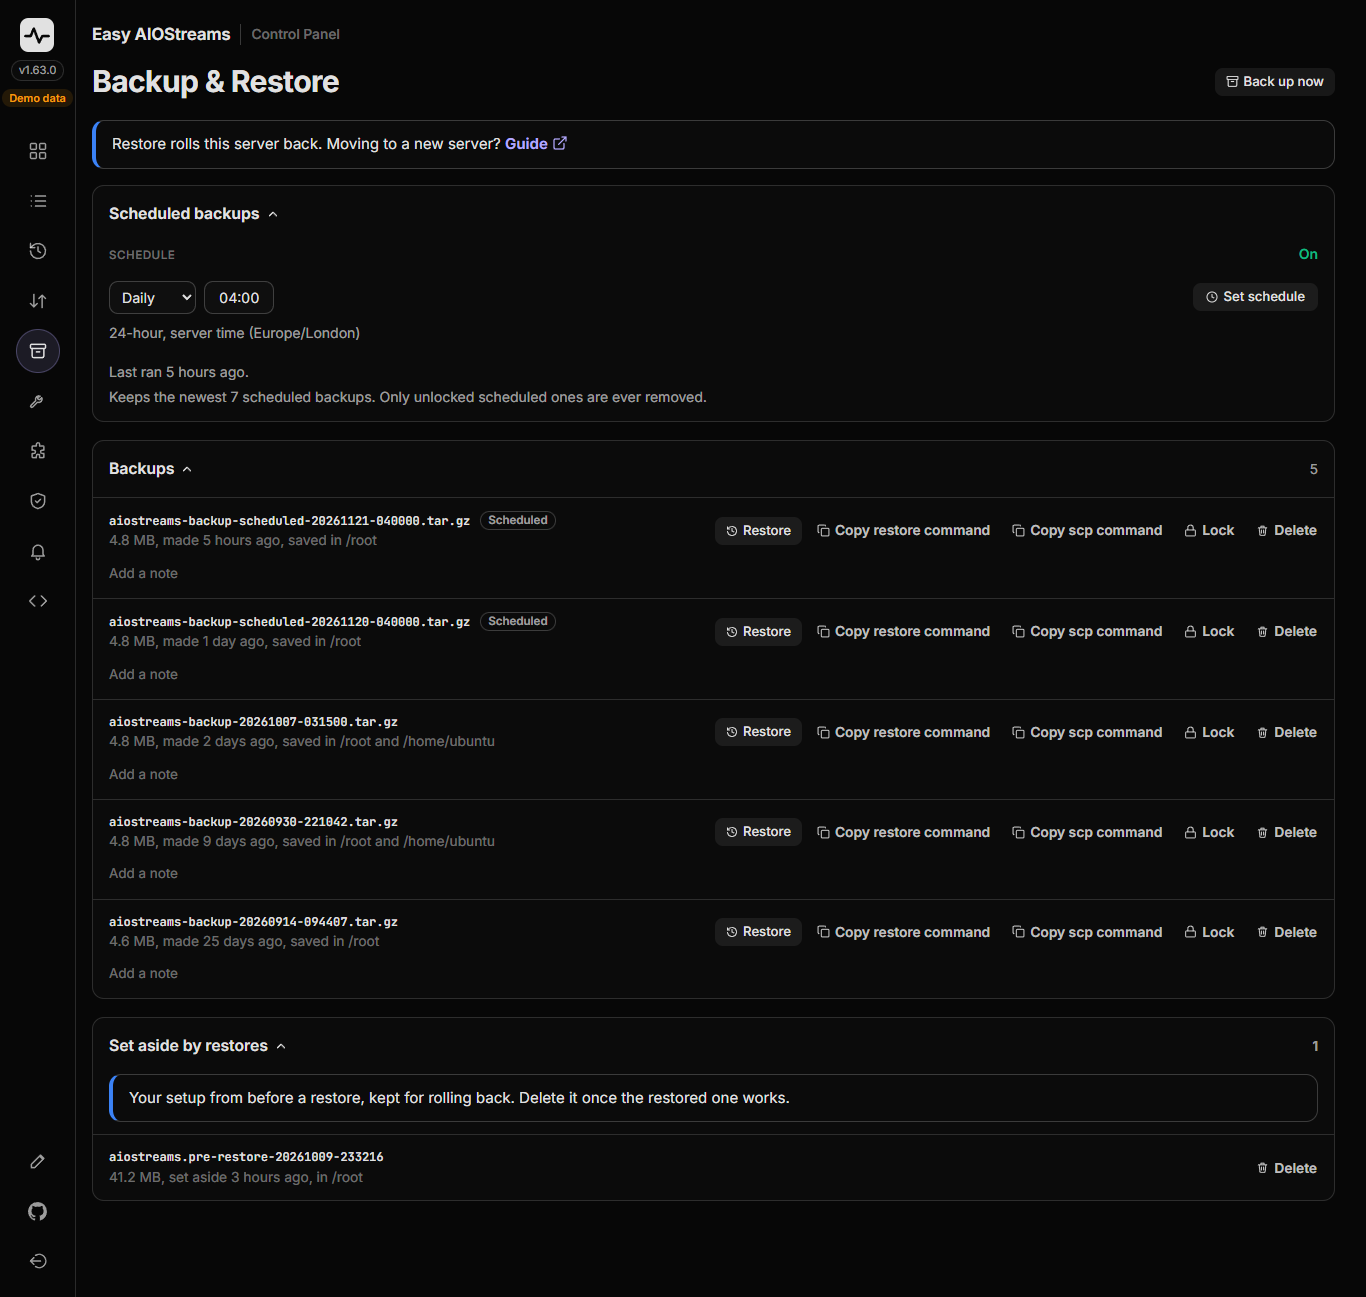
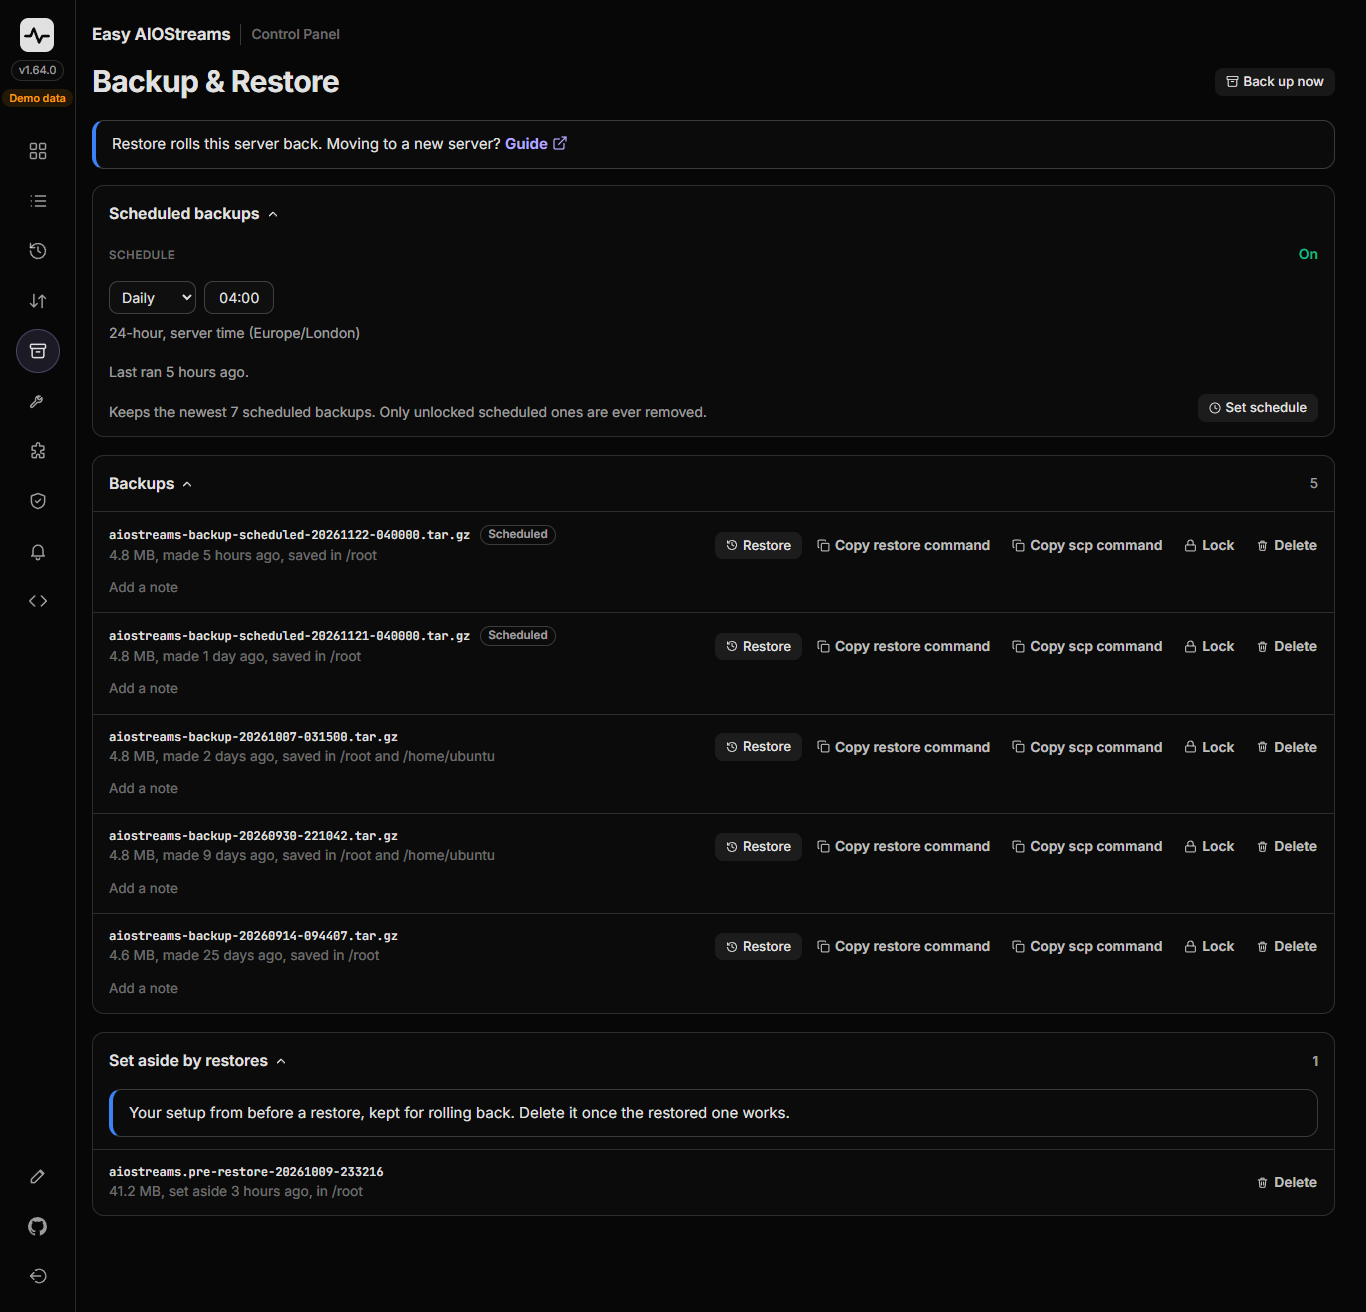
Panel 1.64.1: Last, Using now and Set schedule moved to the cards' right edge on desktop
Last on Scheduled server reboot and Using now on Container logs sit at
the right edge; Set schedule on Scheduled backups is in the bottom right
corner. Maintenance and Backup & Restore screenshots retaken.

diff --git a/control-panel/web/css/app.css b/control-panel/web/css/app.css
@@ -1900,7 +1900,7 @@ html:has(> body > .drawer:not([hidden]), > body > #dialog:not([hidden])) { overf
 .sched-head h3 { margin: 0; }
 .sched-card.folded .sched-head { margin-bottom: 0; }
 .sched-card.folded .sched-fold-word { display: inline; }
-.sched-card.folded .rs-block, .sched-card.folded .sched-last:not(.warn), .sched-card.folded > p.small { display: none; }
+.sched-card.folded .rs-block, .sched-card.folded .sched-last:not(.warn), .sched-card.folded > p.small, .sched-card.folded > .bk-foot { display: none; }
 .bk-card.has-items { background: var(--raised); border: 1px solid var(--card-edge); border-radius: var(--radius); overflow: hidden; margin-top: 0; }
 .bk-card.has-items .backups-head { display: flex; justify-content: space-between; align-items: center; gap: 12px; margin: 0; padding: 16px; font-size: .98rem; }
 .bk-card.has-items .bk-count { display: inline; font-size: .86rem; font-weight: 400; color: var(--dim); }
@@ -2148,6 +2148,14 @@ a.btn .ext { margin-left: 0; vertical-align: 0; }
 .bk-desk .rs-tz { display: block; margin: 8px 0 0; }
 .bk-desk .rs-tz[hidden] { display: none; }
 .bk-desk .sched-last { margin-top: 12px; }
+.bk-desk .bk-foot { display: flex; align-items: flex-end; justify-content: space-between; gap: 16px; margin-top: 12px; }
+.bk-desk .bk-foot .bal { margin: 0; }
+.bk-desk .bk-foot > .btn { flex: none; margin-left: auto; }
+/* Desktop: the second figure of Scheduled server reboot (Last) and Container logs (Using now) at the card's right edge */
+@media (min-width: 721px) {
+  .rs-desk .stat-grid > .stat:last-child, .lg-right .stat-grid > .stat:last-child { text-align: right; }
+  .lg-right .stat-grid { grid-template-columns: repeat(2, minmax(0, 1fr)); }
+}
 /* Desktop: each row's button says what it sets, and they share one width so they line up */
 .rs-desk .rs-ctl > .btn { min-width: 9.5em; }
 

diff --git a/control-panel/web/js/maint.js b/control-panel/web/js/maint.js
@@ -145,10 +145,12 @@ function updPeek(u, pk) {
 function logs(m) {
   const l = m.logs;
   const sub = !l.limited ? "They can grow without limit" : l.pending ? "Some containers take it when next recreated" : "10 MB per container";
-  return phoneFold(card("Container logs", [
+  const el = card("Container logs", [
     stat("Size limit", l.limited ? "Set" : "Not set", sub, l.limited ? "ok" : "warn"),
     stat("Using now", fmtBytes(l.size), "All containers together"),
-  ], l.limited ? "" : "Setting it restarts every container once: a few seconds of downtime.", l.limited ? null : button("maint.logs", true)),
+  ], l.limited ? "" : "Setting it restarts every container once: a few seconds of downtime.", l.limited ? null : button("maint.logs", true));
+  el.classList.add("lg-right");   // desktop: Using now sits at the card's right edge
+  return phoneFold(el,
   "logs", "Container logs", l.limited ? ["Limit set", "ok"] : ["Not set", "warn"]);
 }
 

diff --git a/control-panel/web/js/activity.js b/control-panel/web/js/activity.js
@@ -470,9 +470,11 @@ async function showSchedule() {
     title,
     h("div", { class: "rs-block" },
       h("div", { class: "rs-line" }, h("span", { class: "ver-label", text: "Schedule" }), h("span", { class: "rs-word " + word[1], text: word[0] })),
-      ...(phone ? [row, tz, setBtn] : [h("div", { class: "rs-ctl" }, row, setBtn), tz])),
+      ...(phone ? [row, tz, setBtn] : [h("div", { class: "rs-ctl" }, row), tz])),
     // native append writes a null out as the word "null", so the last-run line only when there is one
-    ...(last ? [last] : []), keep);
+    ...(last ? [last] : []),
+    // Desktop: Set schedule in the card's bottom right corner, beside the note
+    ...(phone ? [keep] : [h("div", { class: "bk-foot" }, keep, setBtn)]));
 }
 
 // Old installs a restore moved aside. Only shown when there are some.

diff --git a/CHANGELOG.md b/CHANGELOG.md
@@ -4,6 +4,7 @@ Notable changes to easy-aiostreams, newest first. Control panel versions are in 
 
 ## 22 November 2026
 
+- On a computer, Last on Scheduled server reboot and Using now on Container logs sit at the right edge of their cards, and Set schedule on Scheduled backups is in the card's bottom right corner. The Maintenance and Backup & Restore screenshots in the guides are retaken. (Panel 1.64.1)
 - **Docs:** The Logs and Activity screenshots in the control panel guides are retaken for panel 1.64.0. ([#215](https://github.com/alpinezx/easy-aiostreams/pull/215))
 - Activity now reads like a log. Each row has a status dot, how long ago in the accent colour, what happened and its group: on one line on a computer, and on a phone with the name first and the time and group under it. The filter card matches Logs, with search, the Show list (when Phone alerts is set up), OK, WARN and ERROR buttons and a clear icon. Logs lose the time pills too and show the date and time as plain coloured text. (Panel 1.64.0, [#214](https://github.com/alpinezx/easy-aiostreams/pull/214))
 - **Fixed:** Logs' tools now sit on the level buttons' row of the filter card they act on. On a computer the switches come first, then a thin rule under the regex button, then Save, Copy and Clear last. On a phone only the bin stays in the row, so nothing is pushed off the edge when the page is zoomed in; Save and Copy moved into the ⋮ menu, the regex button is gone, and the search box has more room. The log box shows whole rows with a single line at its top edge instead of a cut-off row, and on a phone dialogs with three buttons put Cancel at the bottom, under the two choices. (Panel 1.64.0, [#214](https://github.com/alpinezx/easy-aiostreams/pull/214))
